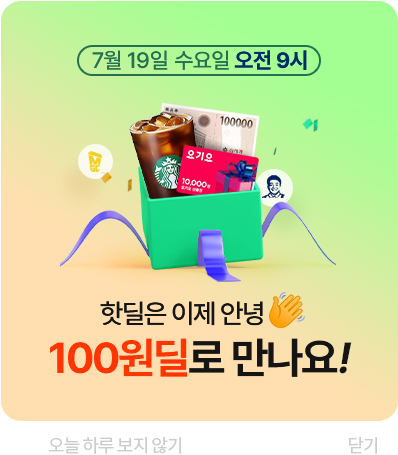
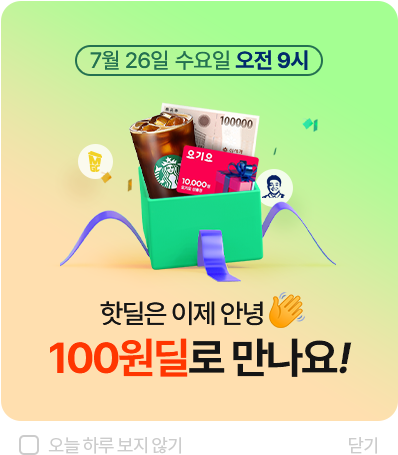
브사 핫딜페이지 메인팝업 수정

Changed region(s): [[0.4523, 0.0923, 0.8141, 0.1846], [0.1809, 0.0923, 0.4221, 0.1846], [0.0302, 0.9538, 0.1206, 1.0]]

diff --git a/apps/010pay/010pay-brand/html/hotdeal/hotdeal.html b/apps/010pay/010pay-brand/html/hotdeal/hotdeal.html
@@ -92,67 +92,50 @@
 	<header class="GNB" id="GNB">
 		<div class="container">
 			<h1 class="logo"><a href="/">010PAY</a></h1>
-
+	
 			<!-- menu Start -->
 			<nav class="nav">
-
 				<!-- Links -->
 				<ul class="navbar-nav">
-					<li class="nav-item W156">
-						<a class="nav-link" href="../service/mytongjang.html">서비스 소개</a>
+					<li class="nav-item W156  active">
+						<a class="nav-link ga-tag" href="/010mytongjang" data-ga-tag="메뉴_서비스소개">서비스 소개<i></i></a>
 						<ul>
-							<li class="nav-item"><a class="nav-link" href="../service/mytongjang.html#introTop">010내통장결제</a></li>
-							<li class="nav-item"><a class="nav-link" href="../service/010vbank.html#introTop">010가상계좌</a></li>
-							<li class="nav-item"><a class="nav-link" href="../service/passpay.html#introTop">PASS페이</a></li>
+							<li class="nav-item"><a class="nav-link ga-tag" href="javascript:goServiceMenu('010mytongjang', '010mytongjang#introTop');" data-ga-tag="메뉴_010내통장결제">010내통장결제</a></li>
+							<li class="nav-item"><a class="nav-link ga-tag" href="javascript:goServiceMenu('010vbank', '010vbank#introTop');" data-ga-tag="메뉴_010가상계좌">010가상계좌</a></li>
+							<li class="nav-item"><a class="nav-link ga-tag" href="javascript:goServiceMenu('passpay', 'passpay#introTop');" data-ga-tag="메뉴_PASS페이">PASS페이</a></li>
 						</ul>
 					</li>
-					<li class="nav-item W146">
-						<a class="nav-link" href="#"
-							>세금 환급</a
-						>
+					<li class="nav-item MR56 ">
+						<a class="nav-link ga-tag" href="/" data-ga-tag="메뉴_기프티몰">기프티몰</a>
 					</li>
-					<li class="nav-item W146 MR23">
-						<a class="nav-link" href="../card/check_card_v3.html"
-							>체크카드</a
-						>
+					<li class="nav-item MR56 nav-now">
+						<a class="nav-link ga-tag" href="/hotdeal" data-ga-tag="메뉴_핫딜">핫딜</a>
 					</li>
-					<li class="nav-item MR23 nav-now">
-						<a
-							class="nav-link nav-hotdeal"
-							href="../hotdeal/hotdeal.html"
-							><span>핫딜</span></a
-						>
+					<li class="nav-item MR56 ">
+						<a class="nav-link ga-tag" href="/card" data-ga-tag="메뉴_체크카드">체크카드</a>
 					</li>
-					<li class="nav-item">
-						<a
-							class="nav-link nav-giftimall"
-							href="../giftimall/giftimall.html"
-							><span>기프티몰</span></a
-						>
+					<li class="nav-item ">
+						<a class="nav-link ga-tag" href="/refund" data-ga-tag="메뉴_세금 환급">세금 환급</a>
 					</li>
-					<li class="nav-item W140">
-						<a class="nav-link" href="../news/event.html">소식</a>
+					<li class="nav-item W140  active">
+						<a class="nav-link ga-tag" href="javascript:goServiceMenu('event','news');" data-ga-tag="메뉴_소식">소식<i></i></a>
 						<ul>
-							<li class="nav-item">
-								<a class="nav-link" href="../news/event.html"
-									>이벤트 &middot; 혜택</a
-								>
+							<li class="nav-item"><a class="nav-link ga-tag" href="javascript:goServiceMenu('event','news');" data-ga-tag="메뉴_이벤트·혜택">이벤트 · 혜택</a>
 							</li>
-							<li class="nav-item">
-								<a class="nav-link" href="../news/notices.html">공지사항</a>
+							<li class="nav-item"><a class="nav-link ga-tag" href="javascript:goServiceMenu('notices','news');" data-ga-tag="메뉴_공지사항">공지사항</a>
 							</li>
 						</ul>
 					</li>
-					<li class="nav-item">
-						<a class="nav-link" href="../support/support.html">고객 문의</a>
+					<li class="nav-item ">
+						<a class="nav-link ga-tag" href="/support" data-ga-tag="메뉴_고객 문의">고객 문의</a>
 					</li>
 					<li class="nav-item card">
-						<a href="javascript:popup1('https://ezauth.settlebank.co.kr/wooricard.do', '카드 바로 신청');" class="nav-link" title="새창열기"><span>NEW</span> 카드 바로 신청</a>
+						<a href="https://app.adjust.com/10arn997?engagement_type=fallback_click" id="gnb_btn" class="nav-link ga-tag" data-ga-tag="메뉴_앱 다운로드" title="새창열기">앱 다운로드</a>
 					</li>
 				</ul>
 			</nav>
 			<!-- menu END -->
-		</div>
+		<div class="btn_menu"><i class="one"></i><i class="two"></i><i class="three"></i></div></div>
 	</header>
 	<!-- GNB END -->
 
@@ -465,7 +448,7 @@
 			<div class="modal-body">
 				<div>
 					<img
-					src="../../resource/images/hotdeal/modal-first.png"
+					src="../../resource/images/hotdeal/modal-first.png?ver=20230705"
 					alt="7월 26일 수요일 오전 9시 핫딜은 이제 안녕 100원딜로 만나요!"
 				/>
 					<input type="checkbox" id="chk1" name="chk1" >
